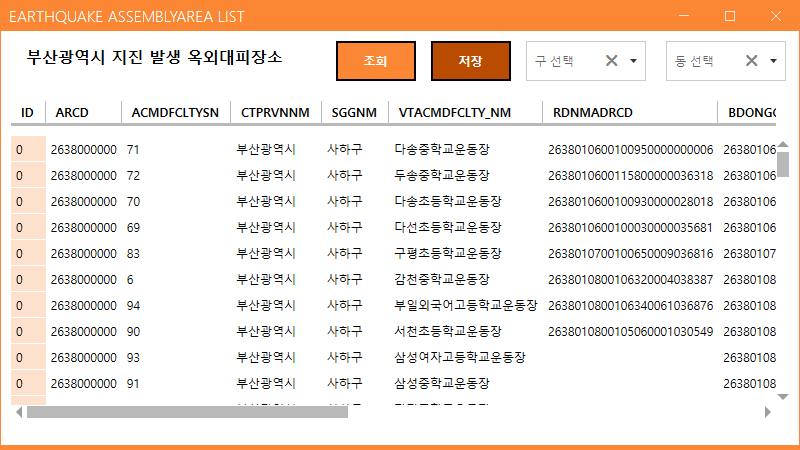
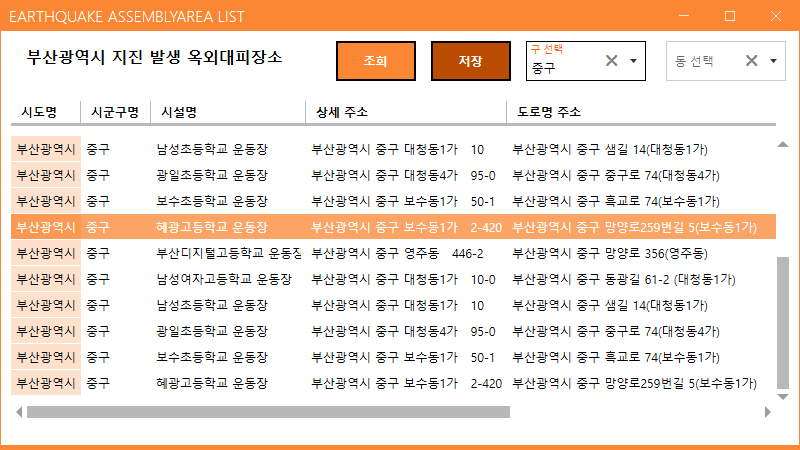
수정

diff --git a/final/MyToyProject/AssemblyAreaList/MainWindow.xaml b/final/MyToyProject/AssemblyAreaList/MainWindow.xaml
@@ -57,7 +57,8 @@
 
         <DataGrid x:Name="GrdResult" Grid.Row="1" Margin="10,10,9,10"
           IsReadOnly="True" AutoGenerateColumns="False" ItemsSource="{Binding}"
-          Style="{StaticResource MahApps.Styles.DataGrid.Azure}">
+          Style="{StaticResource MahApps.Styles.DataGrid.Azure}"
+                  MouseDoubleClick="GrdResult_MouseDoubleClick">
             <DataGrid.Columns>
                 <DataGridTextColumn Binding="{Binding Ctprvn_nm}" Header="시도명" Width="70"/>
                 <DataGridTextColumn Binding="{Binding Sgg_nm}" Header="시군구명" Width="70"/>
@@ -67,6 +68,7 @@
                 <DataGridTextColumn Binding="{Binding Fclty_ar}" Header="시설 면적(㎡)" Width="95"/>
                 <DataGridTextColumn Binding="{Binding Vt_acmd_psbl_nmpr}" Header="최대 수용 인원수(명)" Width="135"/>
                 <DataGridTextColumn Binding="{Binding Mngps_telno}" Header="관리기관 전화번호" Width="124"/>
+
             </DataGrid.Columns>
         </DataGrid>
 

diff --git a/final/MyToyProject/AssemblyAreaList/MapWindow.xaml b/final/MyToyProject/AssemblyAreaList/MapWindow.xaml
@@ -1,0 +1,13 @@
+<Window x:Class="AssemblyAreaList.MapWindow"
+        xmlns="http://schemas.microsoft.com/winfx/2006/xaml/presentation"
+        xmlns:x="http://schemas.microsoft.com/winfx/2006/xaml"
+        xmlns:d="http://schemas.microsoft.com/expression/blend/2008"
+        xmlns:mc="http://schemas.openxmlformats.org/markup-compatibility/2006"
+        xmlns:cefSharp="clr-namespace:CefSharp.Wpf;assembly=CefSharp.Wpf"
+        xmlns:local="clr-namespace:AssemblyAreaList"
+        mc:Ignorable="d"
+        Title="MapWindow" Height="350" Width="600">
+    <Grid Margin="20" Background="Gainsboro">
+        <cefSharp:ChromiumWebBrowser x:Name="BrsLoc" Address="https://map.google.com" />
+    </Grid>
+</Window>

diff --git a/final/MyToyProject/AssemblyAreaList/Models/AssemblyArea.cs b/final/MyToyProject/AssemblyAreaList/Models/AssemblyArea.cs
@@ -1,4 +1,7 @@
-namespace AssemblyAreaList.Models
+using ControlzEx.Theming;
+using System;
+
+namespace AssemblyAreaList.Models
 {
     public class AssemblyArea
     {
@@ -12,6 +15,8 @@
         public string Fclty_ar { get; set; } // 시설 면적
         public string Vt_acmd_psbl_nmpr { get; set; } // 최대 수용 인원수
         public string Mngps_telno { get; set; } // 관리기관 전화번호
+        public double Xcord { get; set; } // 경도
+        public double Ycord { get; set; } // 위도
 
         public static readonly string INSERT_QUERY = @"INSERT INTO [dbo].[AssemblyArea]
                                                                    ([Ctprvn_nm]
@@ -21,7 +26,9 @@
                                                                    ,[Rn_adres]
                                                                    ,[Fclty_ar]
                                                                    ,[Vt_acmd_psbl_nmpr]
-                                                                   ,[Mngps_telno])
+                                                                   ,[Mngps_telno]
+                                                                   ,[Xcord]
+                                                                   ,[Ycord])
                                                              VALUES
                                                                    (@Ctprvn_nm
                                                                    ,@Sgg_nm
@@ -30,21 +37,37 @@
                                                                    ,@Rn_adres
                                                                    ,@Fclty_ar
                                                                    ,@Vt_acmd_psbl_nmpr
-                                                                   ,@Mngps_telno)";
+                                                                   ,@Mngps_telno
+                                                                   ,@Xcord
+                                                                   ,@Ycord)";
 
-        public static readonly string SELECT_QUERY = @"SELECT  [Ctprvn_nm]
-                                                              ,[Sgg_nm]
-                                                              ,[Vt_acmdfclty_nm]
-                                                              ,[Dtl_adres]
-                                                              ,[Rn_adres] 
-                                                              ,[Fclty_ar]
-                                                              ,[Vt_acmd_psbl_nmpr]
-                                                              ,[Mngps_telno]
-                                                          FROM [dbo].[AssemblyArea]";
+        public static readonly string SELECT_QUERY_DISTRICT = @"SELECT  [Ctprvn_nm]
+                                                                       ,[Sgg_nm]
+                                                                       ,[Vt_acmdfclty_nm]
+                                                                       ,[Dtl_adres]
+                                                                       ,[Rn_adres] 
+                                                                       ,[Fclty_ar]
+                                                                       ,[Vt_acmd_psbl_nmpr]
+                                                                       ,[Mngps_telno]
+                                                                       ,[Xcord]
+                                                                       ,[Ycord]
+                                                                  FROM [dbo].[AssemblyArea]
+                                                                 WHERE [Sgg_nm] = @Sgg_nm";
 
         public static readonly string GETDISTRICT_QUERY = @"SELECT [Sgg_nm] AS Save_District
                                                           FROM [dbo].[AssemblyArea]
                                                          GROUP BY [Sgg_nm]";
+
+        //public static readonly string SELECT_QUERY_NEIGHBORHOOD = @"SELECT  [Ctprvn_nm]
+        //                                                                   ,[Sgg_nm]
+        //                                                                   ,[Vt_acmdfclty_nm]
+        //                                                                   ,[Dtl_adres]
+        //                                                                   ,[Rn_adres] 
+        //                                                                   ,[Fclty_ar]
+        //                                                                   ,[Vt_acmd_psbl_nmpr]
+        //                                                                   ,[Mngps_telno]
+        //                                                              FROM [dbo].[AssemblyArea]
+        //                                                             WHERE [Sgg_nm] = @Sgg_nm";
 
         //public static readonly string GETNEIGHBORHOOD_QUERY = @"SELECT [Bdong_cd] AS Save_Neighborhood
         //                                                  FROM [dbo].[AssemblyArea]

diff --git a/final/MyToyProject/AssemblyAreaList/MainWindow.xaml.cs b/final/MyToyProject/AssemblyAreaList/MainWindow.xaml.cs
@@ -110,7 +110,9 @@ namespace AssemblyAreaList
                         Rn_adres = Convert.ToString(item["rn_adres"]),
                         Fclty_ar = Convert.ToString(item["fclty_ar"]),
                         Vt_acmd_psbl_nmpr = Convert.ToString(item["vt_acmd_psbl_nmpr"]),
-                        Mngps_telno = Convert.ToString(item["mngps_telno"])
+                        Mngps_telno = Convert.ToString(item["mngps_telno"]),
+                        Xcord = Convert.ToDouble(item["xcord"]),
+                        Ycord = Convert.ToDouble(item["ycord"])
                     });
                 }
 
@@ -144,6 +146,8 @@ namespace AssemblyAreaList
                         cmd.Parameters.AddWithValue("@Fclty_ar", item.Fclty_ar);
                         cmd.Parameters.AddWithValue("@Vt_acmd_psbl_nmpr", item.Vt_acmd_psbl_nmpr);
                         cmd.Parameters.AddWithValue("@Mngps_telno", item.Mngps_telno);
+                        cmd.Parameters.AddWithValue("@Xcord", item.Xcord);
+                        cmd.Parameters.AddWithValue("@Ycord", item.Ycord);
 
                         insRes += cmd.ExecuteNonQuery();
                     }
@@ -172,7 +176,7 @@ namespace AssemblyAreaList
                 {
                     conn.Open();
 
-                    SqlCommand cmd = new SqlCommand(Models.AssemblyArea.SELECT_QUERY, conn);
+                    SqlCommand cmd = new SqlCommand(Models.AssemblyArea.SELECT_QUERY_DISTRICT, conn);
                     cmd.Parameters.AddWithValue("@Sgg_nm", CboDistrict.SelectedValue.ToString());
                     SqlDataAdapter adapter = new SqlDataAdapter(cmd);
                     DataSet dSet = new DataSet();
@@ -190,7 +194,9 @@ namespace AssemblyAreaList
                             Rn_adres = Convert.ToString(row["rn_adres"]),
                             Fclty_ar = Convert.ToString(row["fclty_ar"]),
                             Vt_acmd_psbl_nmpr = Convert.ToString(row["vt_acmd_psbl_nmpr"]),
-                            Mngps_telno = Convert.ToString(row["mngps_telno"])
+                            Mngps_telno = Convert.ToString(row["mngps_telno"]),
+                            Xcord = Convert.ToDouble(row["xcord"]),
+                            Ycord = Convert.ToDouble(row["ycord"])
                         });
                     }
 
@@ -206,6 +212,7 @@ namespace AssemblyAreaList
 
         }
 
+
         //private void CboNeighborhood_SelectionChanged(object sender, System.Windows.Controls.SelectionChangedEventArgs e)
         //{
         //    if (CboNeighborhood.SelectedValue != null)
@@ -214,7 +221,7 @@ namespace AssemblyAreaList
         //        {
         //            conn.Open();
 
-        //            SqlCommand cmd = new SqlCommand(Models.AssemblyArea.SELECT_QUERY, conn);
+        //            SqlCommand cmd = new SqlCommand(Models.AssemblyArea.SELECT_QUERY_NEIGHBORHOOD, conn);
         //            cmd.Parameters.AddWithValue("@Bdong_cd", CboNeighborhood.SelectedValue.ToString());
         //            SqlDataAdapter adapter = new SqlDataAdapter(cmd);
         //            DataSet dSet = new DataSet();
@@ -224,8 +231,7 @@ namespace AssemblyAreaList
         //            foreach (DataRow row in dSet.Tables["AssemblyArea"].Rows)
         //            {
         //                assemblyArea.Add(new AssemblyArea
-        //                {
-        //                    Id = 0,
+        //                { 
         //                    Ctprvn_nm = Convert.ToString(row["ctprvn_nm"]),
         //                    Sgg_nm = Convert.ToString(row["sgg_nm"]),
         //                    Vt_acmdfclty_nm = Convert.ToString(row["vt_acmdfclty_nm"]),
@@ -247,5 +253,14 @@ namespace AssemblyAreaList
         //        StsResult.Content = $"DB 조회클리어";
         //    }
         //}
+        private void GrdResult_MouseDoubleClick(object sender, System.Windows.Input.MouseButtonEventArgs e)
+        {
+            var curItem = GrdResult.SelectedItem as AssemblyArea;
+
+            var mapWindow = new MapWindow(curItem.Ycord, curItem.Xcord);
+            mapWindow.Owner = this;
+            mapWindow.WindowStartupLocation = WindowStartupLocation.CenterOwner;
+            mapWindow.ShowDialog();
+        }
     }
 }

diff --git a/final/MyToyProject/AssemblyAreaList/MapWindow.xaml.cs b/final/MyToyProject/AssemblyAreaList/MapWindow.xaml.cs
@@ -1,0 +1,33 @@
+using Microsoft.Identity.Client.NativeInterop;
+using System;
+using System.Collections.Generic;
+using System.Linq;
+using System.Text;
+using System.Threading.Tasks;
+using System.Windows;
+using System.Windows.Controls;
+using System.Windows.Data;
+using System.Windows.Documents;
+using System.Windows.Input;
+using System.Windows.Media;
+using System.Windows.Media.Imaging;
+using System.Windows.Shapes;
+
+namespace AssemblyAreaList
+{
+    /// <summary>
+    /// MapWindow.xaml에 대한 상호 작용 논리
+    /// </summary>
+    public partial class MapWindow : Window
+    {
+        public MapWindow()
+        {
+            InitializeComponent();
+        }
+
+        public MapWindow(double Ycord, double Xcord) : this()
+        {
+            BrsLoc.Address = $"https://google.com/maps/place/{Ycord},{Xcord}";
+        }
+    }
+}
